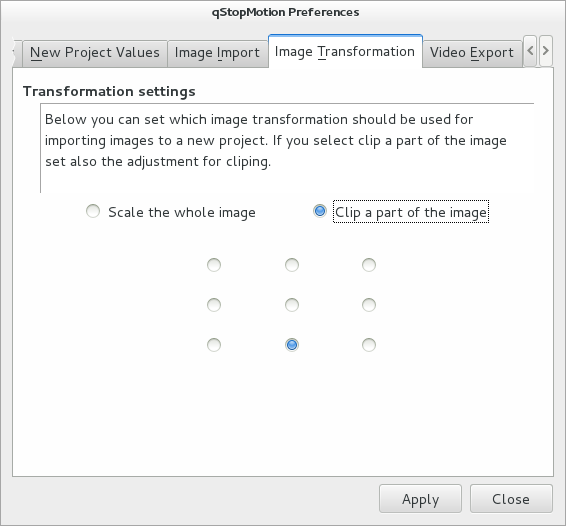
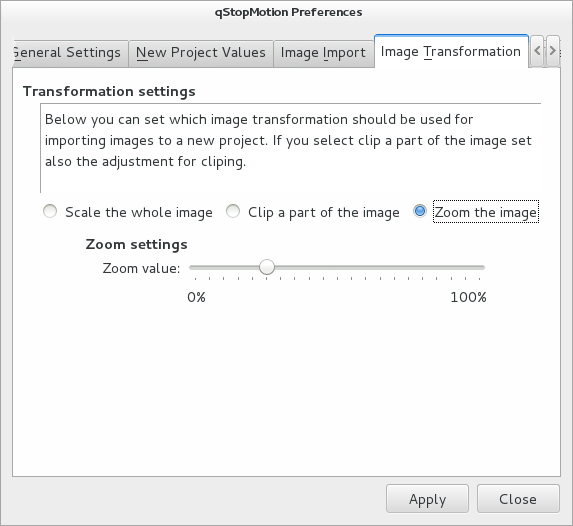
Fix two bugs. Recording mode list box contain more than one entry. No live image on older animation projects.

diff --git a/src/domain/animation/animationproject.cpp b/src/domain/animation/animationproject.cpp
@@ -1,5 +1,5 @@
 /******************************************************************************
- *  Copyright (C) 2005-2013 by                                                *
+ *  Copyright (C) 2005-2014 by                                                *
  *    Bjoern Erik Nilsen (bjoern.nilsen@bjoernen.com),                        *
  *    Fredrik Berg Kjoelstad (fredrikbk@hotmail.com),                         *
  *    Ralf Lange (ralf.lange@longsoft.de)                                     *
@@ -35,40 +35,39 @@ AnimationProject::AnimationProject(Frontend* f)
 {
     qDebug("AnimationProject::Constructor --> Start");
 
-    frontend           = f;
-    serializer         = new ProjectSerializer(f);
+    frontend                 = f;
+    serializer               = new ProjectSerializer(f);
 
-    audioDriver        = NULL; //new OSSDriver("/dev/dsp");
+    recordingMode            = 0;
+    videoSource              = 0;
+    mixMode                  = 0;
+    mixCount                 = 0;
+    playbackCount            = 0;
 
-    activeSceneIndex   = -1;
-    nextSceneIndex     = 0;
-    soundsNumber       = -1;
-    nextTotalExposureIndex = 0;
+    encoderApplication       = 0;
+    grabberSource            = 0;
+    imageFormat              = 0;
+    imageQuality             = 100;
+    imageSize                = 0;
+    imageTransformation      = AnimationProject::ScaleImage;
+    imageAdjustment          = 0;
+    zoomValue                = 25;
+    liveViewFps              = 20;
+    videoFormat              = 0;
+    videoSize                = 0;
+    videoFps                 = 0;
 
-    recordingMode      = 0;
-    videoSource        = 0;
-    mixMode            = 0;
-    mixCount           = 0;
-    playbackCount      = 0;
-    videoFps           = 0;
+    useDefaultOutputFile     = 0;
+    unitMode                 = 0;
+    activeSceneIndex         = -1;
+    nextSceneIndex           = 0;
+    nextTotalExposureIndex   = 0;
 
-    unitMode           = 0;
-    grabberSource      = 0;
+    settingsChanges          = 0;
+    animationChanges         = 0;
 
-    encoderApplication = 0;
-    grabberSource      = 0;
-    imageAdjustment    = 0;
-    zoomValue          = 25;
-    imageFormat        = 0;
-    imageQuality       = 100;
-    imageSize          = 0;
-    videoFormat        = 0;
-    videoSize          = 0;
-    liveViewFps        = 20;
-
-    settingsChanges    = 0;
-    animationChanges   = 0;
-
+    soundsNumber             = -1;
+    audioDriver              = NULL; //new OSSDriver("/dev/dsp");
     isAudioDriverInitialized = false;
 
     qDebug("AnimationProject::Constructor --> End");

diff --git a/src/domain/animation/animationproject.h b/src/domain/animation/animationproject.h
@@ -1,5 +1,5 @@
 /******************************************************************************
- *  Copyright (C) 2005-2013 by                                                *
+ *  Copyright (C) 2005-2014 by                                                *
  *    Bjoern Erik Nilsen (bjoern.nilsen@bjoernen.com),                        *
  *    Fredrik Berg Kjoelstad (fredrikbk@hotmail.com),                         *
  *    Ralf Lange (ralf.lange@longsoft.de)                                     *
@@ -52,6 +52,12 @@ public:
         NoFile,
         InProjectPath,
         InTempPath,
+    };
+
+    enum ImageTransformationMode {
+        ScaleImage,      // Scale the image to the output size
+        ClipImage,       // Clip the image to the output size according to the adjustment setting
+        ZoomImage,       // Zoom the image to the output size according to the zoom setting
     };
 
     /**
@@ -936,9 +942,7 @@ private:
     int imageSize;
 
     /**
-     * 0 = scale the image to the output size
-     * 1 = clip the image to the output size according to the adjustment setting
-     * 2 = zoom the image to the output size according to the zoom setting
+     * Active image transformation mode
      */
     int imageTransformation;
 
@@ -1008,11 +1012,6 @@ private:
     unsigned int nextTotalExposureIndex;
 
     /**
-     * Number of sounds added to the model.
-     */
-    int soundsNumber;
-
-    /**
      * Number of unsaved changes in the settings
      */
     int settingsChanges;
@@ -1021,6 +1020,11 @@ private:
      * Number of unsaved changes in the animation
      */
     int animationChanges;
+
+    /**
+     * Number of sounds added to the model.
+     */
+    int soundsNumber;
 
     /**
      * Audio driver that can play sound.

diff --git a/src/frontends/qtfrontend/frameview/frameviewinterface.cpp b/src/frontends/qtfrontend/frameview/frameviewinterface.cpp
@@ -1,5 +1,5 @@
 /******************************************************************************
- *  Copyright (C) 2010-2013 by                                                *
+ *  Copyright (C) 2010-2014 by                                                *
  *    Ralf Lange (ralf.lange@longsoft.de)                                     *
  *                                                                            *
  *  This program is free software; you can redistribute it and/or modify      *
@@ -20,6 +20,7 @@
 
 #include "frameviewinterface.h"
 
+#include "domain/animation/animationproject.h"
 #include "technical/grabber/imagegrabber.h"
 
 #include <QtCore/QDir>
@@ -420,7 +421,21 @@ QImage FrameViewInterface::clipAndScale(QImage image)
         }
 
         switch (trans) {
-        case 1:
+        case AnimationProject::ScaleImage:
+            // Scale the image to the output size
+
+            widthScale = imageWidth / frameViewWidth;
+            heightScale = imageHeight / frameViewHeight;
+
+            if (widthScale > heightScale) {
+                outputImage = image.scaledToWidth(frameViewWidth);
+            }
+            else {
+                outputImage = image.scaledToHeight(frameViewHeight);
+            }
+
+            break;
+        case AnimationProject::ClipImage:
             // Clip the image to the output size
 
             switch (frontend->getProject()->getImageAdjustment()) {
@@ -473,7 +488,7 @@ QImage FrameViewInterface::clipAndScale(QImage image)
 
             break;
 
-        case 2:
+        case AnimationProject::ZoomImage:
             // Zoom the image
 
             int zoomValue = frontend->getProject()->getZoomValue();

diff --git a/src/frontends/qtfrontend/tooltabs/recordingtab.cpp b/src/frontends/qtfrontend/tooltabs/recordingtab.cpp
@@ -1,5 +1,5 @@
 /******************************************************************************
- *  Copyright (C) 2010-2013 by                                                *
+ *  Copyright (C) 2010-2014 by                                                *
  *    Ralf Lange (ralf.lange@longsoft.de)                                     *
  *                                                                            *
  *  This program is free software; you can redistribute it and/or modify      *
@@ -205,6 +205,7 @@ void RecordingTab::makeGUI()
 void RecordingTab::retranslateStrings()
 {
     recordingGroupBox->setTitle(tr("Recording"));
+    recordingModeCombo->clear();
     recordingModeCombo->addItem(tr("Single frame capture"));
     // recordingModeCombo->addItem(tr("Automated recording"));
 

diff --git a/src/frontends/qtfrontend/frameview/frameviewimage.cpp b/src/frontends/qtfrontend/frameview/frameviewimage.cpp
@@ -1,5 +1,5 @@
 /******************************************************************************
- *  Copyright (C) 2010-2013 by                                                *
+ *  Copyright (C) 2010-2014 by                                                *
  *    Ralf Lange (ralf.lange@longsoft.de)                                     *
  *                                                                            *
  *  This program is free software; you can redistribute it and/or modify      *

diff --git a/src/frontends/qtfrontend/frameview/frameviewimage.h b/src/frontends/qtfrontend/frameview/frameviewimage.h
@@ -1,5 +1,5 @@
 /******************************************************************************
- *  Copyright (C) 2010-2013 by                                                *
+ *  Copyright (C) 2010-2014 by                                                *
  *    Ralf Lange (ralf.lange@longsoft.de)                                     *
  *                                                                            *
  *  This program is free software; you can redistribute it and/or modify      *

diff --git a/src/frontends/qtfrontend/frameview/frameviewinterface.h b/src/frontends/qtfrontend/frameview/frameviewinterface.h
@@ -1,5 +1,5 @@
 /******************************************************************************
- *  Copyright (C) 2010-2013 by                                                *
+ *  Copyright (C) 2010-2014 by                                                *
  *    Ralf Lange (ralf.lange@longsoft.de)                                     *
  *                                                                            *
  *  This program is free software; you can redistribute it and/or modify      *

diff --git a/src/frontends/qtfrontend/tooltabs/recordingtab.h b/src/frontends/qtfrontend/tooltabs/recordingtab.h
@@ -1,5 +1,5 @@
 /******************************************************************************
- *  Copyright (C) 2010-2013 by                                                *
+ *  Copyright (C) 2010-2014 by                                                *
  *    Ralf Lange (ralf.lange@longsoft.de)                                     *
  *                                                                            *
  *  This program is free software; you can redistribute it and/or modify      *
